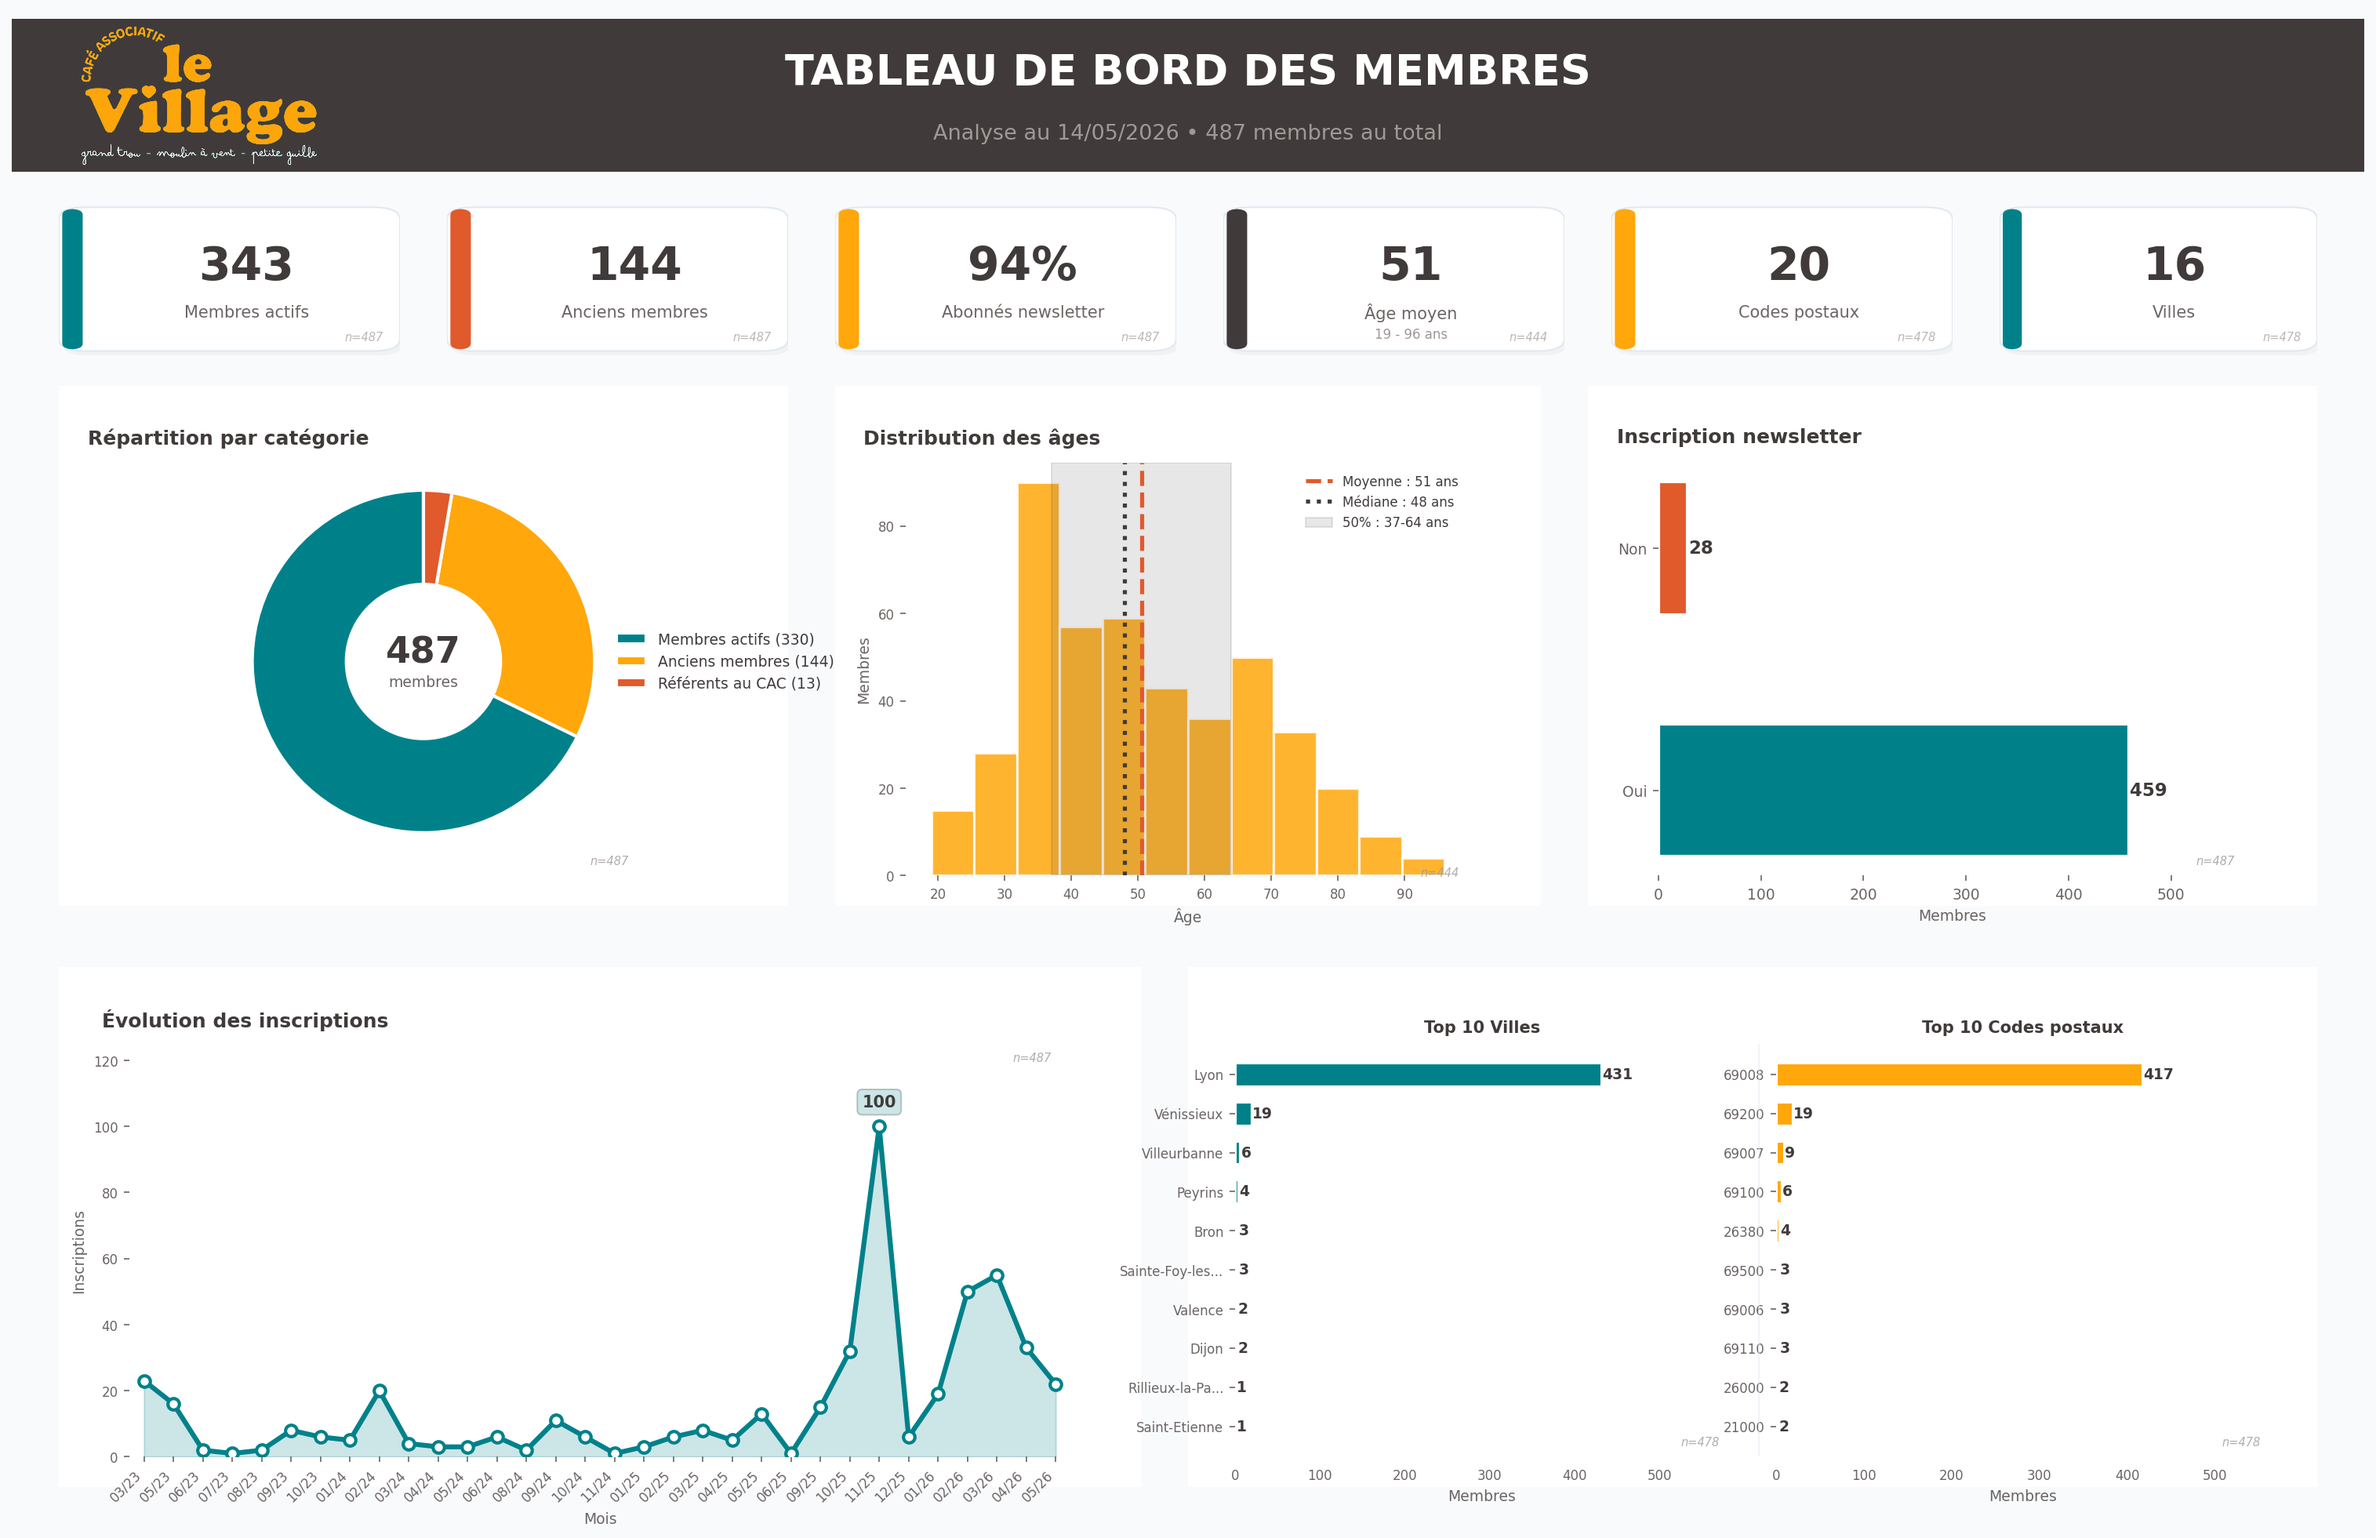
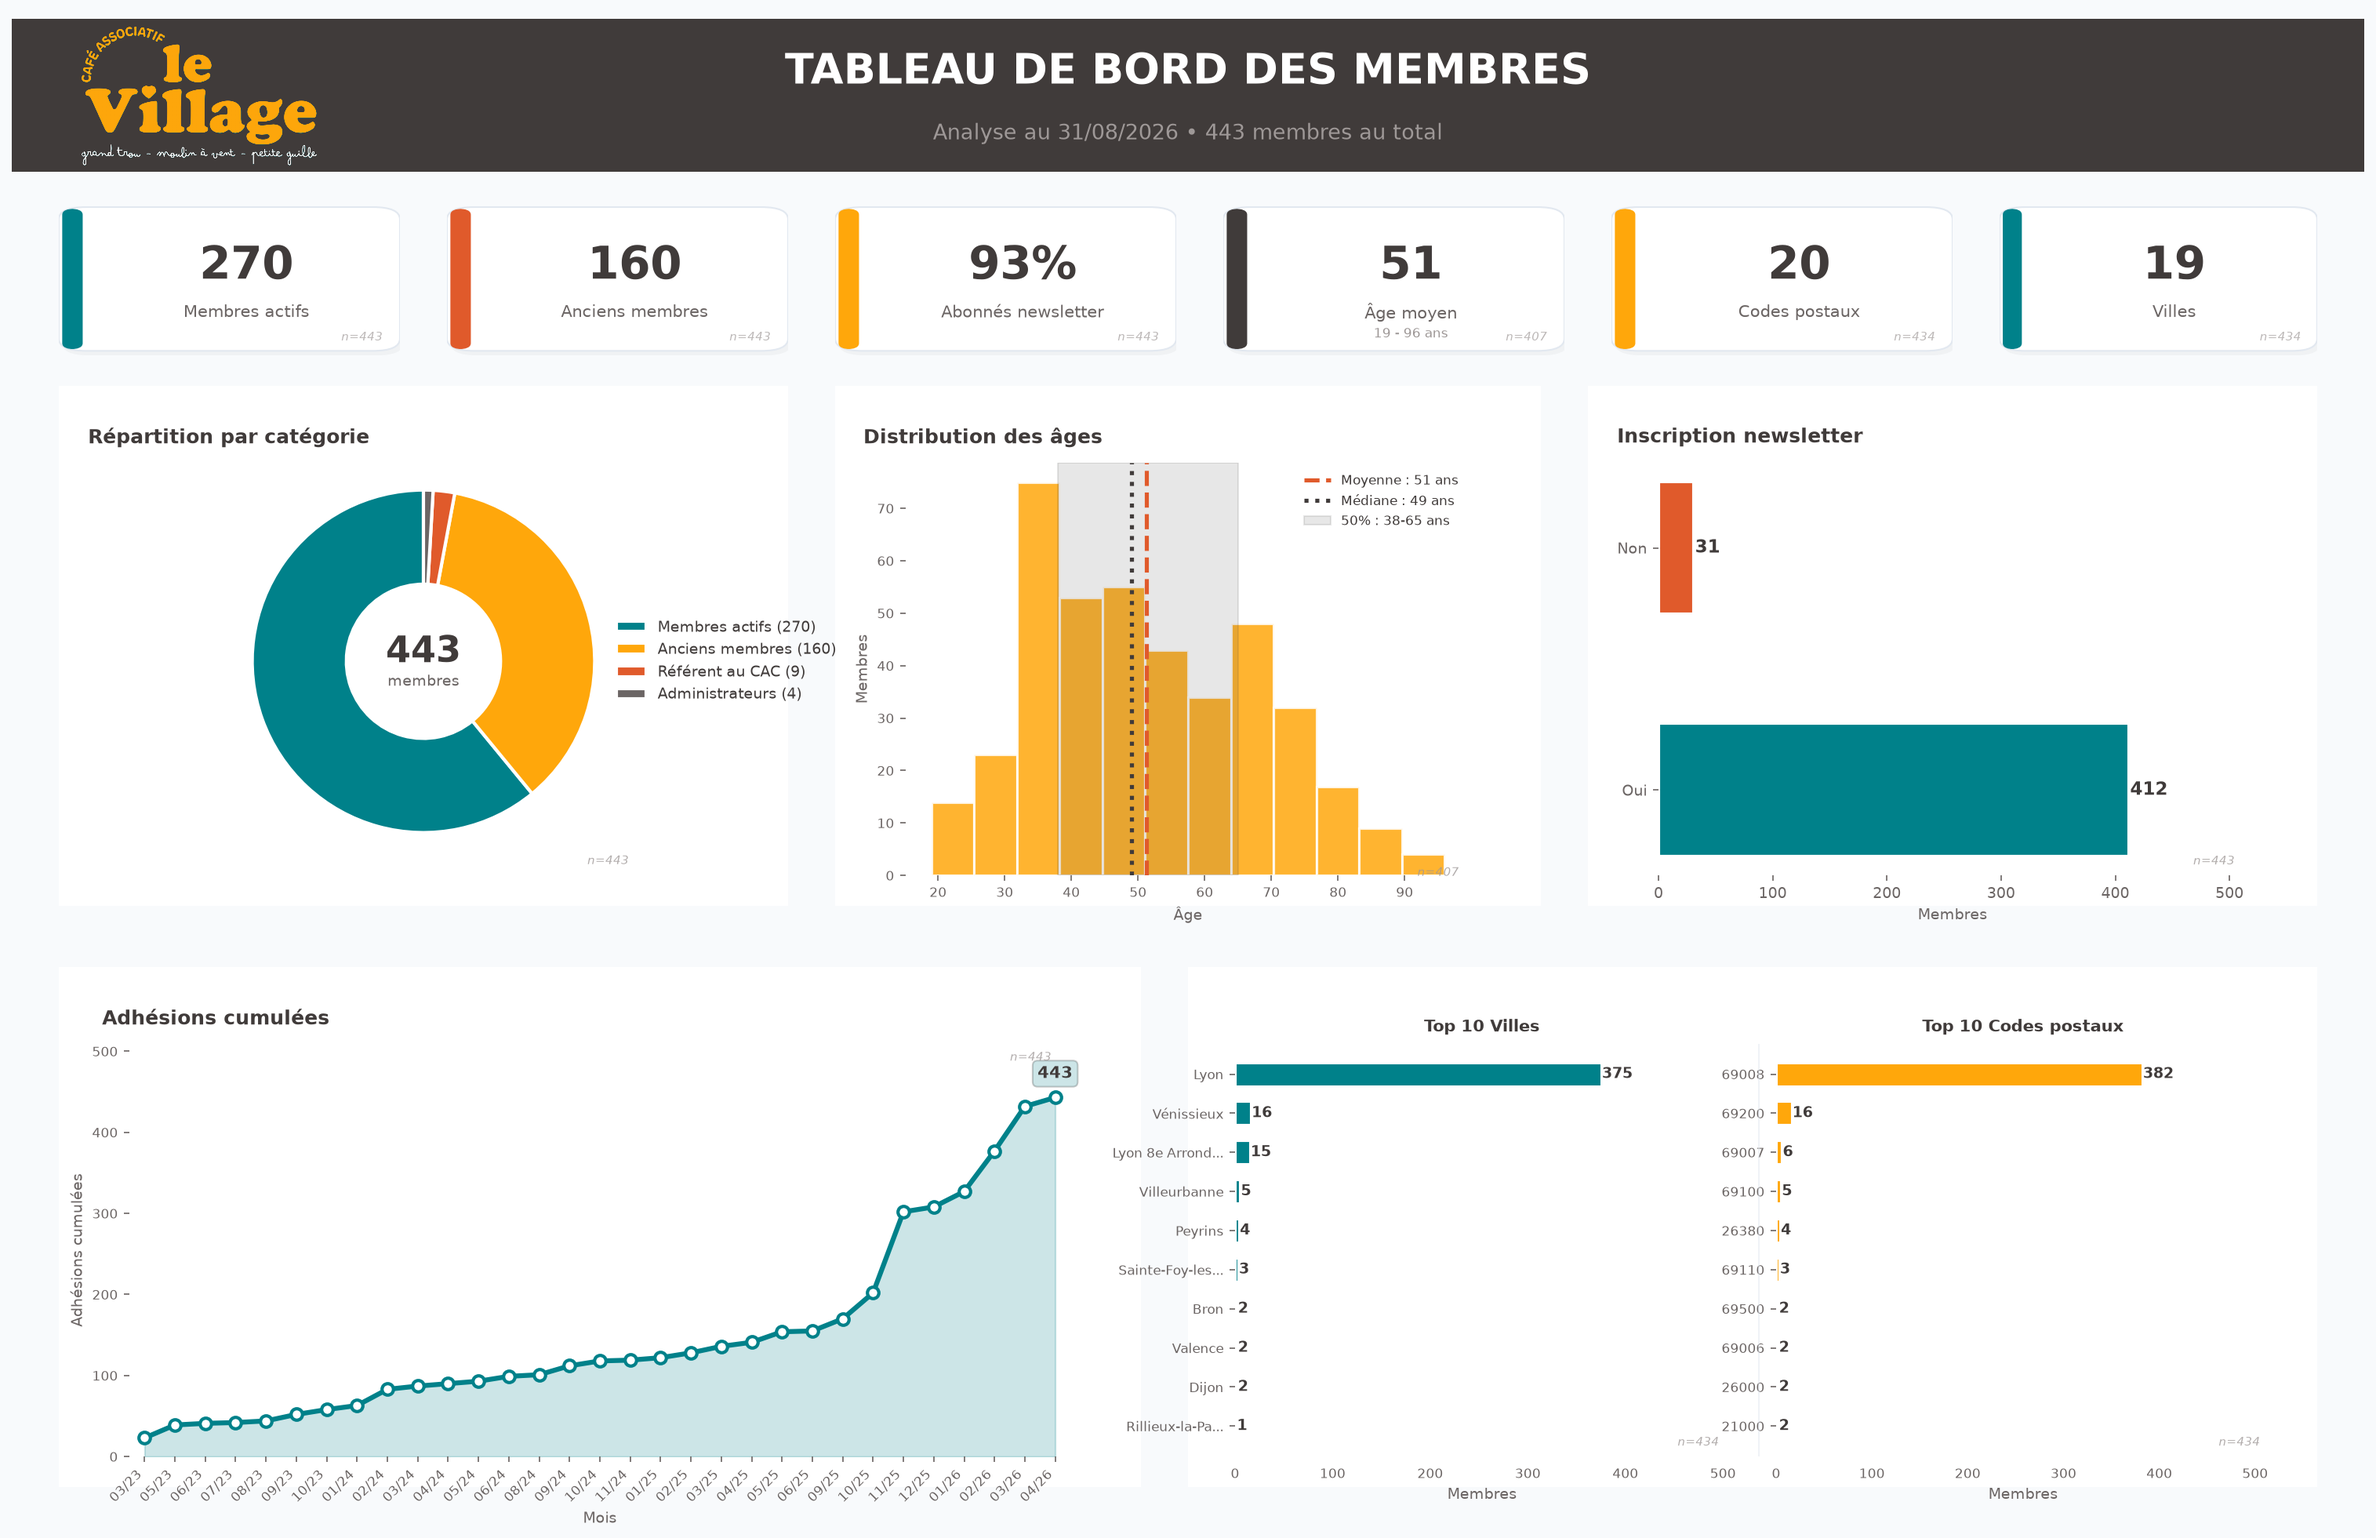
Marque don et adhésion en cours de développement, corrige la reprise du 4 septembre
- Bannière "en cours de développement" visible sur don.html et adhesion.html,
  boutons d'action désactivés (don, adhésion, formulaire d'adhésion)
- Fallback data/evenements.json corrigé : réouverture le vendredi 4 septembre
  (l'évènement du 1er septembre n'est plus d'actualité)
- Dashboard membres mis à jour avec la courbe des adhésions cumulées

diff --git a/don.html b/don.html
@@ -67,9 +67,9 @@
     <section class="band-dark" style="padding:4rem 0;">
       <div class="container">
         <div class="banner reveal" style="background:rgba(255,167,11,.12);border:1.5px solid rgba(201,122,10,.5);color:rgba(255,255,255,.85);">
-          <p data-fr-rich="<strong style='color:var(--amber);'>Work in progress</strong> — Le dispositif de dons défiscalisés est en cours de mise en place. Les démarches administratives sont en cours. Cette page sera complétée dès que les dons seront ouverts. Merci pour votre patience !"
-             data-en-rich="<strong style='color:var(--amber);'>Work in progress</strong> — The tax-deductible donation system is being set up. Administrative procedures are ongoing. This page will be updated as soon as donations open. Thank you for your patience!">
-            <strong style="color:var(--amber);">Work in progress</strong> — Le dispositif de dons défiscalisés est en cours de mise en place. Les démarches administratives sont en cours. Cette page sera complétée dès que les dons seront ouverts. Merci pour votre patience !
+          <p data-fr-rich="🚧 <strong style='color:var(--amber);'>Fonctionnalité en cours de développement</strong> — Les dons en ligne ne sont pas encore ouverts sur le site. Les démarches administratives sont en cours. Cette page sera complétée et le paiement activé dès que possible. Merci pour votre patience !"
+             data-en-rich="🚧 <strong style='color:var(--amber);'>Feature in development</strong> — Online donations are not yet open on the site. Administrative procedures are ongoing. This page will be completed and payment activated as soon as possible. Thank you for your patience!">
+            🚧 <strong style="color:var(--amber);">Fonctionnalité en cours de développement</strong> — Les dons en ligne ne sont pas encore ouverts sur le site. Les démarches administratives sont en cours. Cette page sera complétée et le paiement activé dès que possible. Merci pour votre patience !
           </p>
         </div>
       </div>
@@ -122,11 +122,11 @@
         <div class="reveal" style="text-align:center;">
           <h2 style="font-family:'Crimson Text',Georgia,serif;font-size:clamp(1.8rem,4vw,2.6rem);color:white;margin-bottom:.75rem;" data-fr="Vous souhaitez agir dès maintenant ?" data-en="Want to act now?">Vous souhaitez agir dès maintenant ?</h2>
           <p style="font-size:1rem;color:rgba(255,255,255,.65);margin-bottom:1.5rem;max-width:420px;margin-left:auto;margin-right:auto;line-height:1.7;"
-             data-fr="L'adhésion est disponible immédiatement — c'est la première façon concrète de soutenir le café et de rejoindre la communauté du Village."
-             data-en="Membership is available immediately — it's the first concrete way to support the café and join the Le Village community.">
-            L'adhésion est disponible immédiatement — c'est la première façon concrète de soutenir le café et de rejoindre la communauté du Village.
+             data-fr="Le don comme l'adhésion en ligne sont en cours de mise en place. Revenez très bientôt pour soutenir le café et rejoindre la communauté du Village !"
+             data-en="Both donations and online membership are currently being set up. Check back very soon to support the café and join the Le Village community!">
+            Le don comme l'adhésion en ligne sont en cours de mise en place. Revenez très bientôt pour soutenir le café et rejoindre la communauté du Village !
           </p>
-          <a href="adhesion.html" class="btn btn-amber btn-lg" data-fr="Adhérer au Village →" data-en="Join Le Village →">Adhérer au Village →</a>
+          <a href="adhesion.html" class="btn btn-amber btn-lg is-disabled" aria-disabled="true" tabindex="-1" data-fr="Bientôt disponible" data-en="Coming soon">Bientôt disponible</a>
         </div>
       </div>
     </section>

diff --git a/adhesion.html b/adhesion.html
@@ -101,6 +101,18 @@
   </div>
 
   <main>
+    <!-- Bannière en cours de développement -->
+    <section class="band-dark" style="padding:2.5rem 0;">
+      <div class="container">
+        <div class="banner reveal" style="background:rgba(255,167,11,.12);border:1.5px solid rgba(201,122,10,.5);color:rgba(255,255,255,.85);">
+          <p data-fr-rich="🚧 <strong style='color:var(--amber);'>Fonctionnalité en cours de développement</strong> — Le formulaire d'adhésion en ligne n'est pas encore activé. Vous pouvez adhérer directement sur place, au Village, lors de votre prochaine visite. Cette page sera bientôt complétée."
+             data-en-rich="🚧 <strong style='color:var(--amber);'>Feature in development</strong> — The online membership form is not yet active. You can join directly on site at Le Village during your next visit. This page will be completed soon.">
+            🚧 <strong style="color:var(--amber);">Fonctionnalité en cours de développement</strong> — Le formulaire d'adhésion en ligne n'est pas encore activé. Vous pouvez adhérer directement sur place, au Village, lors de votre prochaine visite. Cette page sera bientôt complétée.
+          </p>
+        </div>
+      </div>
+    </section>
+
     <!-- Tableau de bord membres -->
     <section style="padding:3rem 0 0;">
       <div class="container">
@@ -112,7 +124,7 @@
             <svg width="14" height="14" viewBox="0 0 24 24" fill="none" stroke="currentColor" stroke-width="2"><circle cx="11" cy="11" r="8"/><line x1="21" y1="21" x2="16.65" y2="16.65"/><line x1="11" y1="8" x2="11" y2="14"/><line x1="8" y1="11" x2="14" y2="11"/></svg>
             <span data-fr="Cliquer pour agrandir" data-en="Click to enlarge">Cliquer pour agrandir</span>
           </div>
-          <figcaption data-fr="Analyse au 14/05/2026 — données issues du registre des membres." data-en="Analysis as of 14/05/2026 — data from the member register.">Analyse au 14/05/2026 — données issues du registre des membres.</figcaption>
+          <figcaption data-fr="Analyse au 31/08/2026 — données issues du registre des membres." data-en="Analysis as of 31/08/2026 — data from the member register.">Analyse au 31/08/2026 — données issues du registre des membres.</figcaption>
         </figure>
       </div>
     </section>
@@ -189,8 +201,8 @@
               </label>
               <p class="consent-error" id="rgpd-error" role="alert" data-fr="Vous devez cocher cette case pour valider votre adhésion." data-en="You must tick this box to submit your membership.">Vous devez cocher cette case pour valider votre adhésion.</p>
             </div>
-            <button type="submit" class="btn btn-amber form-submit" id="submit-btn">
-              <span id="submit-text" data-fr="Envoyer mon adhésion" data-en="Send my membership">Envoyer mon adhésion</span>
+            <button type="submit" class="btn btn-amber form-submit" id="submit-btn" disabled aria-disabled="true">
+              <span id="submit-text" data-fr="Bientôt disponible" data-en="Coming soon">Bientôt disponible</span>
             </button>
           </form>
           <div class="success-screen" id="success-screen" role="alert">
@@ -309,9 +321,6 @@
           clearErr(prenomEl, prenomErr); clearErr(nomEl, nomErr); clearErr(emailEl, emailErr);
           consentErr.style.display = 'none'; consentGroup.classList.remove('invalid');
           globalErr.style.display = 'none';
-          const sBtn = document.getElementById('submit-btn');
-          const sTxt = document.getElementById('submit-text');
-          sBtn.disabled = false; sTxt.textContent = 'Envoyer mon adhésion';
           form.style.display = '';
           form.style.opacity = '';
           form.style.transition = '';

diff --git a/assets/css/village-shared.css b/assets/css/village-shared.css
@@ -64,6 +64,7 @@ button { font-family: inherit; cursor: pointer; }
 .btn-outline:hover  { background:var(--teal); color:var(--white); }
 .btn-ghost    { background:rgba(255,255,255,.12); color:var(--white); border-color:rgba(255,255,255,.3); }
 .btn-ghost:hover    { background:rgba(255,255,255,.22); border-color:rgba(255,255,255,.5); }
+.btn:disabled, .btn.is-disabled { opacity:.5; cursor:not-allowed; pointer-events:none; box-shadow:none; transform:none; }
 
 /* ─── CARDS ──────────────────────────────── */
 .card { background:var(--white); border:1px solid var(--border); border-radius:var(--r-lg); padding:1.75rem; box-shadow:var(--shadow-sm); }
